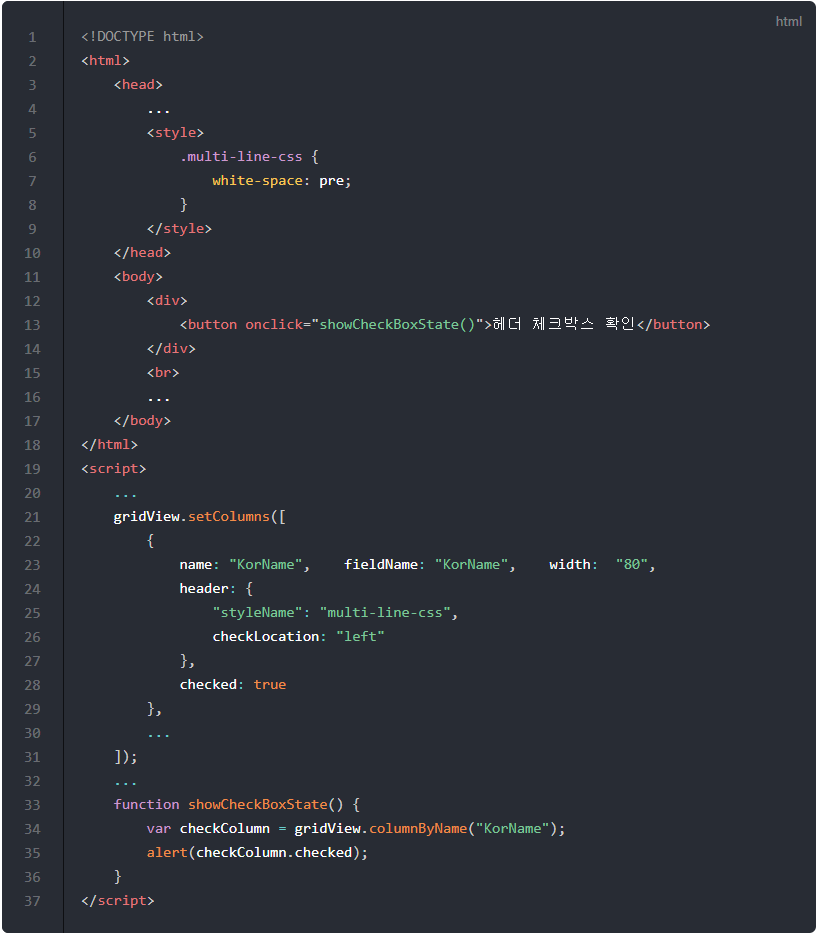
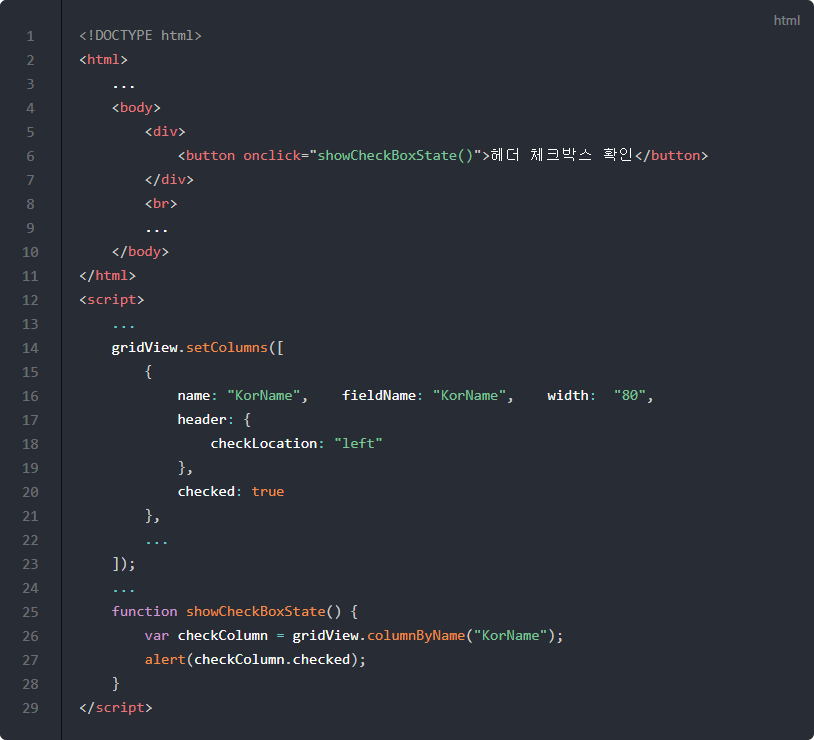
Part-2 02 원고 및 예제 수정

diff --git a/vuepress/.vuepress/public/samples/realgrid2/part-2/02/step-04.html b/vuepress/.vuepress/public/samples/realgrid2/part-2/02/step-04.html
@@ -6,11 +6,6 @@
 		<script type="text/javascript" src="/lib/realgrid-lic.js"></script>
 		<script type="text/javascript" src="/lib/realgrid.2.3.3.min.js"></script>
 		<script type="text/javascript" src="/js/jquery-3.4.0.min.js"></script>
-        <style>
-            .multi-line-css {
-                white-space: pre;
-            }
-        </style>
 	</head>
 	<body>
 		<div id="realgrid" style="width: 100%; height: 440px;">
@@ -41,11 +36,9 @@
             name: "KorName",    fieldName: "KorName",    width:  "80",
             header: {
                 text: "한글이름\nKorName",
-                "styleName": "multi-line-css",
             },
             footer: {
                 text: "한글이름\nKorName",
-                "styleName": "multi-line-css",
             },
         },
 

diff --git a/vuepress/.vuepress/public/samples/realgrid2/part-2/02/step-09.html b/vuepress/.vuepress/public/samples/realgrid2/part-2/02/step-09.html
@@ -42,17 +42,10 @@
 
     gridView.setFooters([{ height: 40 }, { height: 40 }]);
     gridView.setColumnLayout([
-        {
-            name: "userInfoGroup",
-            header: { visible: false },
-            direction: "horizontal",
-            items: [
-                // { column: "KorName", footerUserSpans: [{}, { colspan: 2 }] },
-                { column: "KorName", footerUserSpans: [{ rowspan: 2, colspan: 2 }] },
-                "Gender",
-                "Age",
-            ],
-        },
+        { column: "KorName", footerUserSpans: [{}, { colspan: 2 }] },
+        // { column: "KorName", footerUserSpans: [{ rowspan: 2, colspan: 2 }] },
+        "Gender",
+        "Age",
         "Phone",
         "ProductId",
         "KorCountry",

diff --git a/vuepress/.vuepress/public/samples/realgrid2/part-2/02/step-03.html b/vuepress/.vuepress/public/samples/realgrid2/part-2/02/step-03.html
@@ -6,11 +6,6 @@
 		<script type="text/javascript" src="/lib/realgrid-lic.js"></script>
 		<script type="text/javascript" src="/lib/realgrid.2.3.3.min.js"></script>
 		<script type="text/javascript" src="/js/jquery-3.4.0.min.js"></script>
-        <style>
-            .multi-line-css {
-                white-space: pre;
-            }
-        </style>
 	</head>
 	<body>
         <div>
@@ -44,7 +39,6 @@
         {
             name: "KorName",    fieldName: "KorName",    width:  "80",
             header: {
-                "styleName": "multi-line-css",
                 checkLocation: "left"
             },
             checked: true

diff --git a/vuepress/part-2/02/README.md b/vuepress/part-2/02/README.md
@@ -115,14 +115,7 @@
 ``` html
 <!DOCTYPE html>
 <html>
-	<head>
-        ...
-        <style>
-            .multi-line-css {
-                white-space: pre;
-            }
-        </style>
-	</head>
+    ...
 	<body>
         <div>
             <button onclick="showCheckBoxState()">헤더 체크박스 확인</button>
@@ -137,7 +130,6 @@
         {
             name: "KorName",    fieldName: "KorName",    width:  "80",
             header: {
-                "styleName": "multi-line-css",
                 checkLocation: "left"
             },
             checked: true
@@ -159,18 +151,7 @@
 * [여러 줄로 표시하기 예제 실행결과](http://10bun.tv/samples/realgrid2/part-2/02/step-04.html)
 
 ``` html
-<!DOCTYPE html>
-<html>
-	<head>
-        ...
-        <style>
-            .multi-line-css {
-                white-space: pre;
-            }
-        </style>
-	</head>
-    ...
-</html>
+...
 <script>
     ...
     gridView.header.height = 60;
@@ -181,11 +162,9 @@
             name: "KorName",    fieldName: "KorName",    width:  "80",
             header: {
                 text: "한글이름\nKorName",
-                "styleName": "multi-line-css",
             },
             footer: {
                 text: "한글이름\nKorName",
-                "styleName": "multi-line-css",
             },
         },
         ...
@@ -195,10 +174,10 @@
 ```
 
 
-## 컬럼 푸터
+## 컬럼 푸터의 expression 속성
 
 예제 코드의 실행결과는 아래 링크에서 확인할 수 있습니다.
-* [컬럼 푸터 예제 실행결과](http://10bun.tv/samples/realgrid2/part-2/02/step-05.html)
+* [컬럼 푸터의 expression 속성 예제 실행결과](http://10bun.tv/samples/realgrid2/part-2/02/step-05.html)
 
 ``` html
 ...
@@ -221,6 +200,39 @@
     ...
 </script>
 ```
+
+expression에서 사용할 수 있는 계산 방법은 아래와 같습니다. 
+"count", "sum" 등과 같은 경우에는 "aggregate" 모드에서만 계산이되는데요.
+"aggregate"은 기본값이기 때문에 굳이 옵션을 설정하지 않으면 바로 사용이 가능합니다.
+
+"var"와 같은 계산은 "statistical"로 설정해주어야하는데요.
+"statistical" 설정하면 산술적 계산식들은 모두 사용이 가능합니다.
+
+"statistical"은 "aggregate"을 포함한다고 생각하시면 됩니다.
+
+``` js
+gridView.setOptions({ summaryMode: "aggregate" });
+```
+* 산술적 계산 모드
+  * count: 데이터행의 갯수.
+  * sum: 컬럼에 포함된 모든 데이터셀의 값들을 더한 값.
+  * max: 컬럼에 포함된 모든 데이터셀의 값들 중 가장 큰 값.
+  * min: 컬럼에 포함된 모든 데이터셀의 값들 중 가장 작은 값.
+  * avg: 컬럼에 포함된 모든 데이터셀의 값들의 평균.
+
+``` js
+gridView.setOptions({ summaryMode: "statistical" });
+```
+* 통계적 계산 모드
+  * var: 컬럼에 포함된 모든 데이터셀의 값들의 분산.
+  * varp: 컬럼에 포함된 모든 데이터셀의 값들의 모집단 분산.
+  * stdev: 컬럼에 포함된 모든 데이터셀의 값들의 표준편차.
+  * stdevp: 컬럼에 포함된 모든 데이터셀의 값들의 모집단 표준편차.
+
+``` js
+gridView.setOptions({ summaryMode: "none" });
+```
+* 아무것도 계산하지 않음
 
 
 ## 컬럼 푸터 동적 계산
@@ -316,17 +328,8 @@
     ...
     gridView.setFooters([{ height: 40 }, { height: 40 }]);
     gridView.setColumnLayout([
-        {
-            name: "userInfoGroup",
-            header: { visible: false },
-            direction: "horizontal",
-            items: [
-                // { column: "KorName", footerUserSpans: [{}, { colspan: 2 }] },
-                { column: "KorName", footerUserSpans: [{ rowspan: 2, colspan: 2 }] },
-                "Gender",
-                "Age",
-            ],
-        },
+        // { column: "KorName", footerUserSpans: [{}, { colspan: 2 }] },
+        { column: "KorName", footerUserSpans: [{ rowspan: 2, colspan: 2 }] },
         ...
     ]);
     ...
